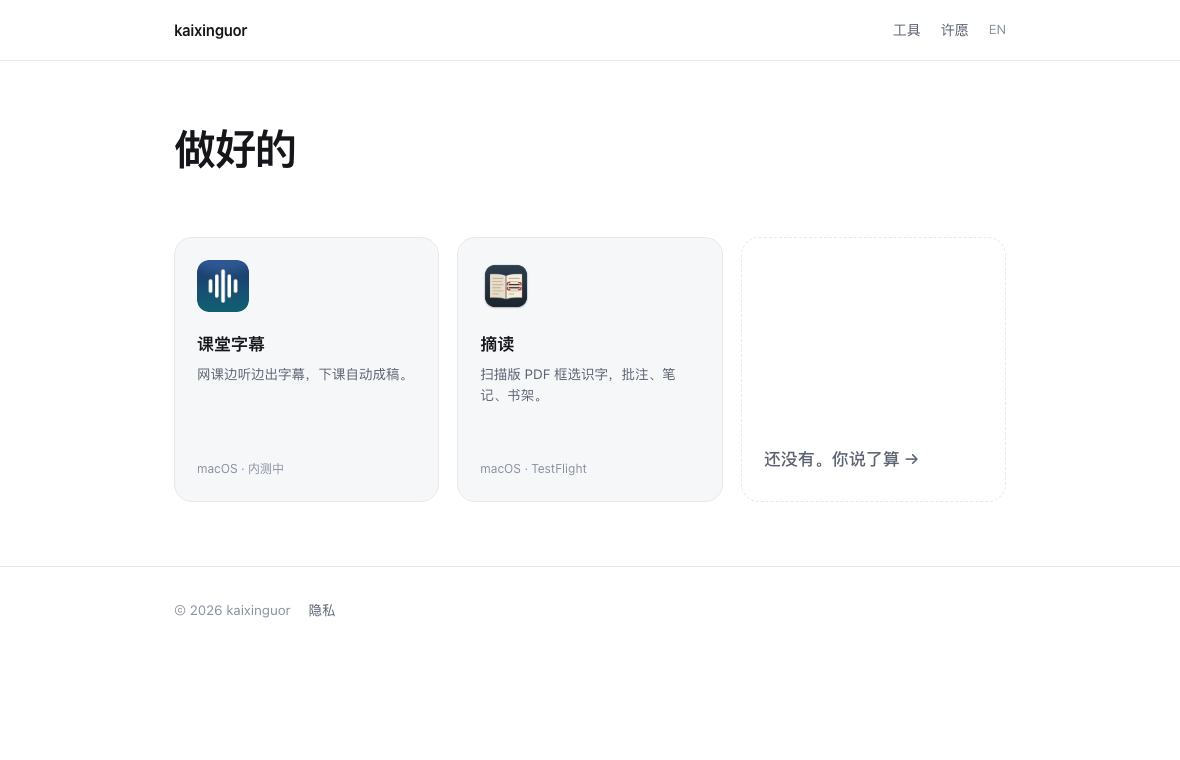
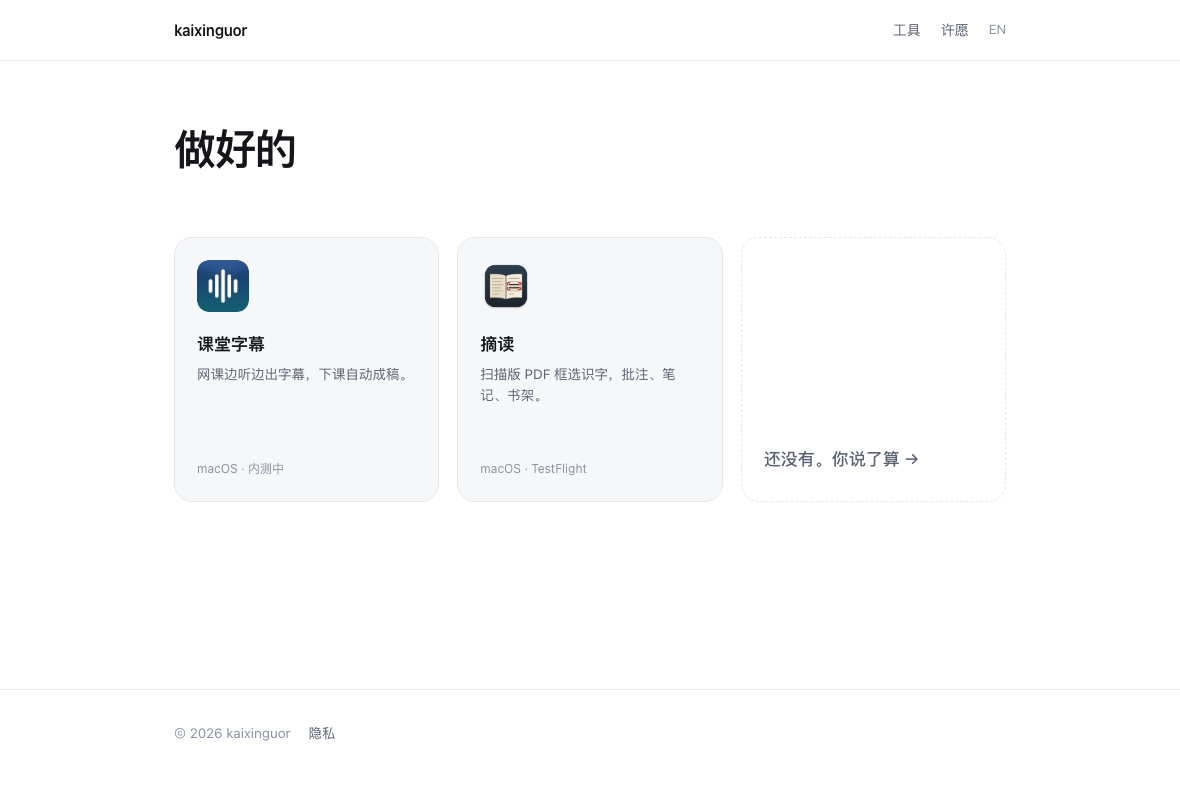
fix: 修好被缓存的样式；补齐双语；隐私拆成站点级和 App 级
- style.css 加 ?v=2：浏览器缓存了旧样式，导致工具卡变成裸链接、图超大
- 首页标题、工具名（Hark / SnipRead）进入双语；产品页在英文模式下给出中文提示
- /privacy.html 改成站点级隐私（不收集、无 cookie、只有语言偏好）
- 课堂字幕的 App 隐私独立成 /hark/privacy.html，与 /snipread/privacy.html 并列
- 欢迎卡片改成居中的 + 号，不再是一片空白
- sitemap 补 tools.html 与 hark/privacy.html

diff --git a/privacy.html b/privacy.html
@@ -3,10 +3,10 @@
 <head>
 <meta charset="utf-8">
 <meta name="viewport" content="width=device-width, initial-scale=1">
-<title>隐私政策 · 课堂字幕</title>
-<meta name="description" content="课堂字幕的隐私政策：识别在本机完成，音频不上传、不落盘。">
+<title>隐私 · kaixinguor</title>
+<meta name="description" content="这个网站本身收集什么，不收集什么。">
 <link rel="icon" href="favicon.svg" type="image/svg+xml">
-<link rel="stylesheet" href="style.css">
+<link rel="stylesheet" href="style.css?v=2">
 </head>
 <body>
 
@@ -23,66 +23,22 @@
 
 <main class="wrap">
 
-  <div class="hero" style="padding-bottom:32px">
-    <h1 style="font-size:32px">隐私政策</h1>
-    <p class="faint">适用于 macOS 应用「课堂字幕」（英文名 Hark）。最后更新：2026-10-24。</p>
+  <div class="poster" style="min-height:auto;padding:64px 0 20px">
+    <h1 style="font-size:clamp(26px,4vw,36px)" data-i18n="site.privacy.title">隐私</h1>
+    <p class="sub" style="margin-bottom:0">这是<strong>这个网站</strong>的隐私说明，不是某个 App 的。</p>
   </div>
 
-  <section style="padding-top:0">
-
-    <h2>一句话</h2>
-    <p><strong>我们不收集你的任何数据。</strong>没有账号、没有服务器、没有统计。你的录音、文字、API Key 全部留在你自己的电脑上。</p>
-
-    <h2>声音是怎么处理的</h2>
+  <section style="padding-top:8px;max-width:620px">
     <ul>
-      <li>App 通过 macOS 的 Core Audio Taps 获取电脑正在播放的声音，并在本机重采样。</li>
-      <li>识别由 macOS 自带的 Speech 框架完成，<strong>全程离线，音频不会离开这台电脑</strong>。</li>
-      <li><strong>音频不会被写入磁盘。</strong>识别完，内存里的音频就丢弃了。</li>
-      <li>App 没有「录音」功能，也不提供保存音频的选项。</li>
+      <li data-i18n="site.privacy.p1">这个网站是几页静态页面。没有账号、没有统计、没有广告、没有埋点。</li>
+      <li data-i18n="site.privacy.p2">不用 cookie。浏览器里只存一样东西：你选的界面语言。清掉浏览器数据就没了。</li>
+      <li data-i18n="site.privacy.p3">许愿表单不会自己发送任何东西。它只是打开你的邮件客户端并把内容填好，发不发由你决定。</li>
+      <li data-i18n="site.privacy.p4">站点由 Cloudflare 托管，它会为安全与防滥用保留标准访问日志。</li>
+      <li>每个工具的隐私政策，看那个工具自己的页面：
+        <a href="hark/privacy.html">课堂字幕</a> ·
+        <a href="snipread/privacy.html">摘读</a>
+      </li>
     </ul>
-
-    <h2>文字存在哪</h2>
-    <ul>
-      <li>逐字稿以 Markdown 文件形式保存在你本机的 <code>~/Library/Application Support/LiveClass/</code>。</li>
-      <li>删除 App 或手动删除文件夹，数据即消失。我们不保留任何副本。</li>
-    </ul>
-
-    <h2>「整理」功能与第三方 AI 服务</h2>
-    <p>这是唯一会联网的功能，需要你主动触发（点「整理」按钮）。触发时：</p>
-    <ul>
-      <li>App 会把<strong>逐字稿的纯文字内容</strong>发送到<strong>你自己配置的大模型服务</strong>（默认是 DeepSeek，也可以是任何兼容 OpenAI 接口的服务）。</li>
-      <li>请求使用<strong>你自己的 API Key</strong>，费用由你与该服务商直接结算，我们不参与、不加价。</li>
-      <li>音频<strong>绝不会</strong>被发送。只发文字。</li>
-      <li>这些文字会受<strong>该服务商</strong>的隐私政策约束，请自行查阅。我们不接收、不存储、不中转这些内容。</li>
-      <li>不配置 API Key，这个功能就不可用；其余功能都不受影响。</li>
-    </ul>
-
-    <h2>API Key 存在哪</h2>
-    <p>存在 macOS 系统的<strong>钥匙串（Keychain）</strong>里，不是明文配置文件。只有本 App 能读取。</p>
-
-    <h2>我们不收集什么</h2>
-    <ul>
-      <li>不收集设备标识、位置、使用统计、崩溃日志。</li>
-      <li>没有账号体系，不要求邮箱或手机号。</li>
-      <li>不含任何第三方分析 SDK、广告 SDK。</li>
-    </ul>
-
-    <h2>系统权限</h2>
-    <ul>
-      <li><strong>系统录音</strong>：只用于读取电脑正在播放的声音。App 不申请屏幕录制权限，也不申请麦克风；音频只在本机识别，不保存、不上传。</li>
-      <li><strong>语音识别</strong>：使用系统 Speech 框架所需。</li>
-    </ul>
-    <p>两项权限都可以随时在「系统设置 → 隐私与安全性」里收回；收回后 App 无法工作，但已有文件不受影响。</p>
-
-    <h2>儿童</h2>
-    <p>本产品不面向 13 岁以下儿童，也不会有意收集其任何信息。</p>
-
-    <h2>政策变更</h2>
-    <p>如果这份政策有实质变更，会更新本页顶部的日期，并在 App 内提示。</p>
-
-    <h2>联系</h2>
-    <p>任何问题：<a href="mailto:linr.w@163.com">linr.w@163.com</a></p>
-
   </section>
 
 </main>

diff --git a/hark/privacy.html b/hark/privacy.html
@@ -1,0 +1,99 @@
+<!DOCTYPE html>
+<html lang="zh-CN">
+<head>
+<meta charset="utf-8">
+<meta name="viewport" content="width=device-width, initial-scale=1">
+<title>隐私政策 · 课堂字幕</title>
+<meta name="description" content="课堂字幕的隐私政策：识别在本机完成，音频不上传、不落盘。">
+<link rel="icon" href="../favicon.svg" type="image/svg+xml">
+<link rel="stylesheet" href="../style.css?v=2">
+</head>
+<body>
+
+<header class="site">
+  <div class="wrap">
+    <a class="brand" href="../index.html">kaixinguor</a>
+    <nav class="top">
+      <a href="../tools.html" data-i18n="nav.tools">工具</a>
+      <a href="../wish.html" data-i18n="nav.wish">许愿</a>
+      <button class="lang-btn" id="lang-toggle" onclick="toggleLang()">EN</button>
+    </nav>
+  </div>
+</header>
+
+<main class="wrap">
+
+  <div class="hero" style="padding-bottom:32px">
+    <h1 style="font-size:32px">隐私政策</h1>
+    <p class="faint">适用于 macOS 应用「课堂字幕」（英文名 Hark）。最后更新：2026-10-24。</p>
+  </div>
+
+  <section style="padding-top:0">
+
+    <h2>一句话</h2>
+    <p><strong>我们不收集你的任何数据。</strong>没有账号、没有服务器、没有统计。你的录音、文字、API Key 全部留在你自己的电脑上。</p>
+
+    <h2>声音是怎么处理的</h2>
+    <ul>
+      <li>App 通过 macOS 的 Core Audio Taps 获取电脑正在播放的声音，并在本机重采样。</li>
+      <li>识别由 macOS 自带的 Speech 框架完成，<strong>全程离线，音频不会离开这台电脑</strong>。</li>
+      <li><strong>音频不会被写入磁盘。</strong>识别完，内存里的音频就丢弃了。</li>
+      <li>App 没有「录音」功能，也不提供保存音频的选项。</li>
+    </ul>
+
+    <h2>文字存在哪</h2>
+    <ul>
+      <li>逐字稿以 Markdown 文件形式保存在你本机的 <code>~/Library/Application Support/LiveClass/</code>。</li>
+      <li>删除 App 或手动删除文件夹，数据即消失。我们不保留任何副本。</li>
+    </ul>
+
+    <h2>「整理」功能与第三方 AI 服务</h2>
+    <p>这是唯一会联网的功能，需要你主动触发（点「整理」按钮）。触发时：</p>
+    <ul>
+      <li>App 会把<strong>逐字稿的纯文字内容</strong>发送到<strong>你自己配置的大模型服务</strong>（默认是 DeepSeek，也可以是任何兼容 OpenAI 接口的服务）。</li>
+      <li>请求使用<strong>你自己的 API Key</strong>，费用由你与该服务商直接结算，我们不参与、不加价。</li>
+      <li>音频<strong>绝不会</strong>被发送。只发文字。</li>
+      <li>这些文字会受<strong>该服务商</strong>的隐私政策约束，请自行查阅。我们不接收、不存储、不中转这些内容。</li>
+      <li>不配置 API Key，这个功能就不可用；其余功能都不受影响。</li>
+    </ul>
+
+    <h2>API Key 存在哪</h2>
+    <p>存在 macOS 系统的<strong>钥匙串（Keychain）</strong>里，不是明文配置文件。只有本 App 能读取。</p>
+
+    <h2>我们不收集什么</h2>
+    <ul>
+      <li>不收集设备标识、位置、使用统计、崩溃日志。</li>
+      <li>没有账号体系，不要求邮箱或手机号。</li>
+      <li>不含任何第三方分析 SDK、广告 SDK。</li>
+    </ul>
+
+    <h2>系统权限</h2>
+    <ul>
+      <li><strong>系统录音</strong>：只用于读取电脑正在播放的声音。App 不申请屏幕录制权限，也不申请麦克风；音频只在本机识别，不保存、不上传。</li>
+      <li><strong>语音识别</strong>：使用系统 Speech 框架所需。</li>
+    </ul>
+    <p>两项权限都可以随时在「系统设置 → 隐私与安全性」里收回；收回后 App 无法工作，但已有文件不受影响。</p>
+
+    <h2>儿童</h2>
+    <p>本产品不面向 13 岁以下儿童，也不会有意收集其任何信息。</p>
+
+    <h2>政策变更</h2>
+    <p>如果这份政策有实质变更，会更新本页顶部的日期，并在 App 内提示。</p>
+
+    <h2>联系</h2>
+    <p>任何问题：<a href="mailto:linr.w@163.com">linr.w@163.com</a></p>
+
+  </section>
+
+</main>
+
+<footer class="site">
+  <div class="wrap">
+    <span>© 2026 kaixinguor</span>
+    <a href="../privacy.html" data-i18n="footer.privacy">隐私</a>
+  </div>
+</footer>
+
+<script src="../lang.js"></script>
+</body>
+</html>

diff --git a/lang.js b/lang.js
@@ -8,12 +8,15 @@ const I18N = {
     "nav.wish": "Wish",
     "footer.privacy": "Privacy",
 
+    "home.h1": "I build the tool<br>you wish existed.",
     "home.sub": "One person, making tools. You say what you want, I build it.",
     "home.link.tools": "What's been made →",
     "home.link.wish": "Tell me what you want →",
 
     "tools.title": "Made",
+    "tools.hark.name": "Hark",
     "tools.hark": "Live captions for online lectures, transcript when class ends.",
+    "tools.snipread.name": "SnipRead",
     "tools.snipread": "Box text on a scanned PDF. Annotate, note, shelve.",
     "tools.wish": "Nothing yet. You decide →",
 
@@ -44,6 +47,13 @@ const I18N = {
     "wish.d2": "Mac + iPhone",
     "wish.d3": "iPad",
     "wish.d4": "Mostly Windows",
+
+    "site.privacy.title": "Privacy",
+    "site.privacy.p1": "This site is a set of static pages. It has no account, no analytics, no ads, and no tracking scripts.",
+    "site.privacy.p2": "No cookies. The only thing stored in your browser is your language choice (localStorage). Clear your browser data and it's gone.",
+    "site.privacy.p3": "The wish form does not send anything by itself. It opens your mail app with the text filled in — you decide whether to send it.",
+    "site.privacy.p4": "The site is served by Cloudflare, which keeps standard access logs for security and abuse prevention.",
+    "site.privacy.p5": "For privacy of each app, see the page of that app.",
 
     "zhonly": "This page is in Chinese for now."
   }

diff --git a/tools.html b/tools.html
@@ -6,7 +6,7 @@
 <title>工具 · kaixinguor</title>
 <meta name="description" content="已经做好的工具。">
 <link rel="icon" href="favicon.svg" type="image/svg+xml">
-<link rel="stylesheet" href="style.css">
+<link rel="stylesheet" href="style.css?v=2">
 </head>
 <body>
 
@@ -32,7 +32,7 @@
     <a class="card" href="hark/index.html">
       <div>
         <img src="assets/hark-icon.png" alt="课堂字幕">
-        <div class="name">课堂字幕</div>
+        <div class="name" data-i18n="tools.hark.name">课堂字幕</div>
         <div class="line" data-i18n="tools.hark">网课边听边出字幕，下课自动成稿。</div>
       </div>
       <div class="foot">macOS · <span data-i18n="meta.internal">内测中</span></div>
@@ -41,14 +41,15 @@
     <a class="card" href="snipread/index.html">
       <div>
         <img src="assets/snipread-icon.png" alt="摘读">
-        <div class="name">摘读</div>
+        <div class="name" data-i18n="tools.snipread.name">摘读</div>
         <div class="line" data-i18n="tools.snipread">扫描版 PDF 框选识字，批注、笔记、书架。</div>
       </div>
       <div class="foot">macOS · <span data-i18n="meta.testflight">TestFlight</span></div>
     </a>
 
     <a class="card ghost" href="wish.html">
-      <div class="name" data-i18n="tools.wish">还没有。你说了算 →</div>
+      <div class="ghost-plus">+</div>
+      <div class="name" data-i18n="tools.wish">还没有。你说了算</div>
     </a>
 
   </div>

diff --git a/hark/index.html b/hark/index.html
@@ -8,7 +8,7 @@
 <meta property="og:title" content="课堂字幕 · 网课边听边出字">
 <meta property="og:description" content="实时字幕 + 自动逐字稿，识别在本机完成，音频不上传。macOS 26+。">
 <link rel="icon" href="../favicon.svg" type="image/svg+xml">
-<link rel="stylesheet" href="../style.css">
+<link rel="stylesheet" href="../style.css?v=2">
 </head>
 <body>
 
@@ -24,6 +24,10 @@
 </header>
 
 <main class="wrap">
+  <p class="faint" data-zh-only hidden style="padding:14px 0 0">
+    This page is in Chinese for now.
+  </p>
+
 
   <div class="hero">
     <p class="eyebrow">macOS 26+ · Apple Silicon</p>
@@ -101,7 +105,7 @@
       <li>不用注册账号，没有云端，没有统计埋点。</li>
       <li>「整理」需要联网，但发出去的只是<strong>文字</strong>，而且用的是你自己填的 API Key。</li>
     </ul>
-    <p class="faint">详见 <a href="../privacy.html">隐私政策</a>。</p>
+    <p class="faint">详见 <a href="privacy.html">隐私政策</a>。</p>
   </section>
   <hr>
 

diff --git a/index.html b/index.html
@@ -8,7 +8,7 @@
 <meta property="og:title" content="kaixinguor">
 <meta property="og:description" content="一个人做的小工具。从许愿到交付。">
 <link rel="icon" href="favicon.svg" type="image/svg+xml">
-<link rel="stylesheet" href="style.css">
+<link rel="stylesheet" href="style.css?v=2">
 </head>
 <body>
 
@@ -26,7 +26,7 @@
 <main class="wrap">
 
   <div class="poster">
-    <h1>做你想用的<br>那个工具。</h1>
+    <h1 data-i18n="home.h1">做你想用的<br>那个工具。</h1>
     <p class="sub" data-i18n="home.sub">一个人的开发。你说想要什么，我把它做出来。</p>
     <div class="links">
       <a href="tools.html" data-i18n="home.link.tools">已经做好的 →</a>

diff --git a/snipread/index.html b/snipread/index.html
@@ -8,7 +8,7 @@
 <meta property="og:title" content="摘读 · 扫描版 PDF 阅读器">
 <meta property="og:description" content="框一段，就是可复制的文字。识别在本机完成，不联网。">
 <link rel="icon" href="../favicon.svg" type="image/svg+xml">
-<link rel="stylesheet" href="../style.css">
+<link rel="stylesheet" href="../style.css?v=2">
 </head>
 <body class="warm">
 
@@ -24,6 +24,10 @@
 </header>
 
 <main class="wrap">
+  <p class="faint" data-zh-only hidden style="padding:14px 0 0">
+    This page is in Chinese for now.
+  </p>
+
 
   <div class="hero">
     <p class="eyebrow">macOS 12+ · 完全离线 · 免费</p>

diff --git a/style.css b/style.css
@@ -733,3 +733,22 @@ footer.site { margin-top: auto; }
 
 /* flex 布局下 auto margin 会把 main 收缩成内容宽度，这里强制撑满 */
 main.wrap { width: 100%; }
+
+.card.ghost {
+  align-items: center;
+  justify-content: center;
+  text-align: center;
+  gap: 10px;
+}
+
+.card.ghost .ghost-plus {
+  font-size: 34px;
+  font-weight: 200;
+  color: var(--fg-faint);
+  line-height: 1;
+}
+
+.card.ghost .name {
+  margin: 0;
+  text-align: center;
+}

diff --git a/download.html b/download.html
@@ -6,7 +6,7 @@
 <title>下载 · 课堂字幕</title>
 <meta name="description" content="下载课堂字幕 Mac 版：macOS 26+，Apple Silicon，本地识别，音频不上传。">
 <link rel="icon" href="favicon.svg" type="image/svg+xml">
-<link rel="stylesheet" href="style.css">
+<link rel="stylesheet" href="style.css?v=2">
 </head>
 <body>
 

diff --git a/changelog.html b/changelog.html
@@ -6,7 +6,7 @@
 <title>更新日志 · 课堂字幕</title>
 <meta name="description" content="课堂字幕的版本更新记录。">
 <link rel="icon" href="favicon.svg" type="image/svg+xml">
-<link rel="stylesheet" href="style.css">
+<link rel="stylesheet" href="style.css?v=2">
 </head>
 <body>
 

diff --git a/wish.html b/wish.html
@@ -6,7 +6,7 @@
 <title>许愿 · kaixinguor</title>
 <meta name="description" content="告诉我你想要什么工具。">
 <link rel="icon" href="favicon.svg" type="image/svg+xml">
-<link rel="stylesheet" href="style.css">
+<link rel="stylesheet" href="style.css?v=2">
 </head>
 <body>
 
